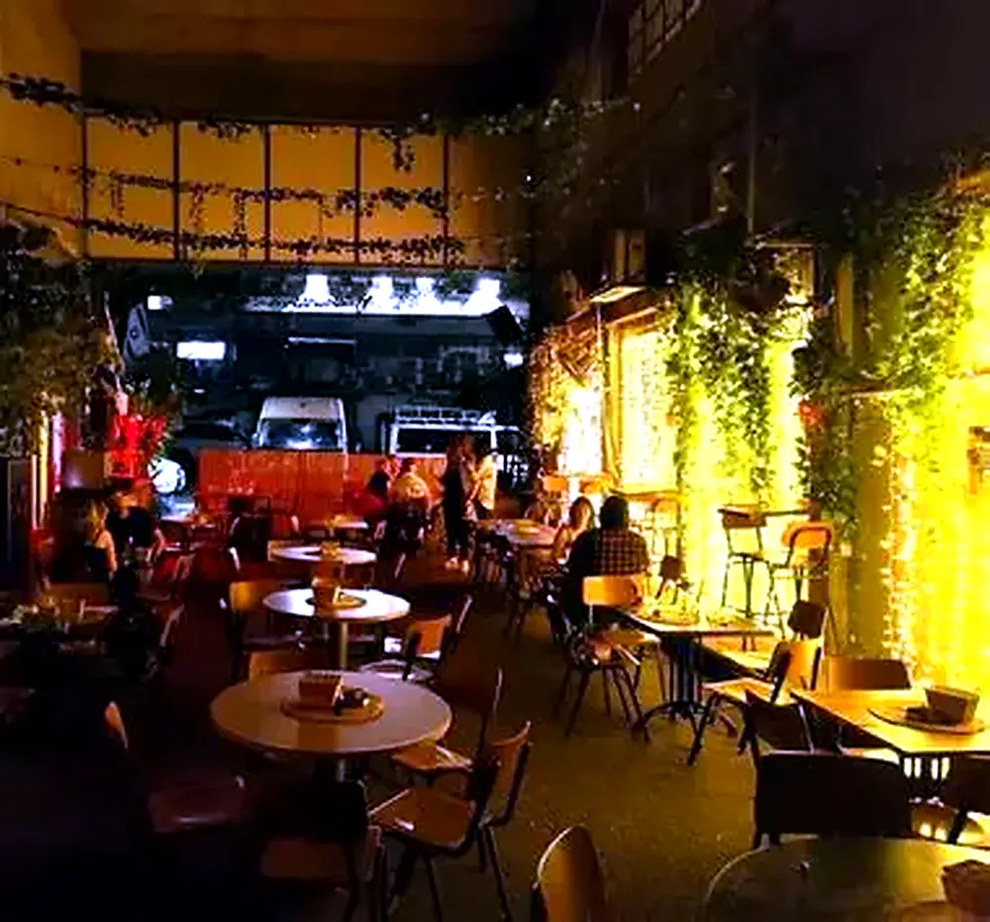
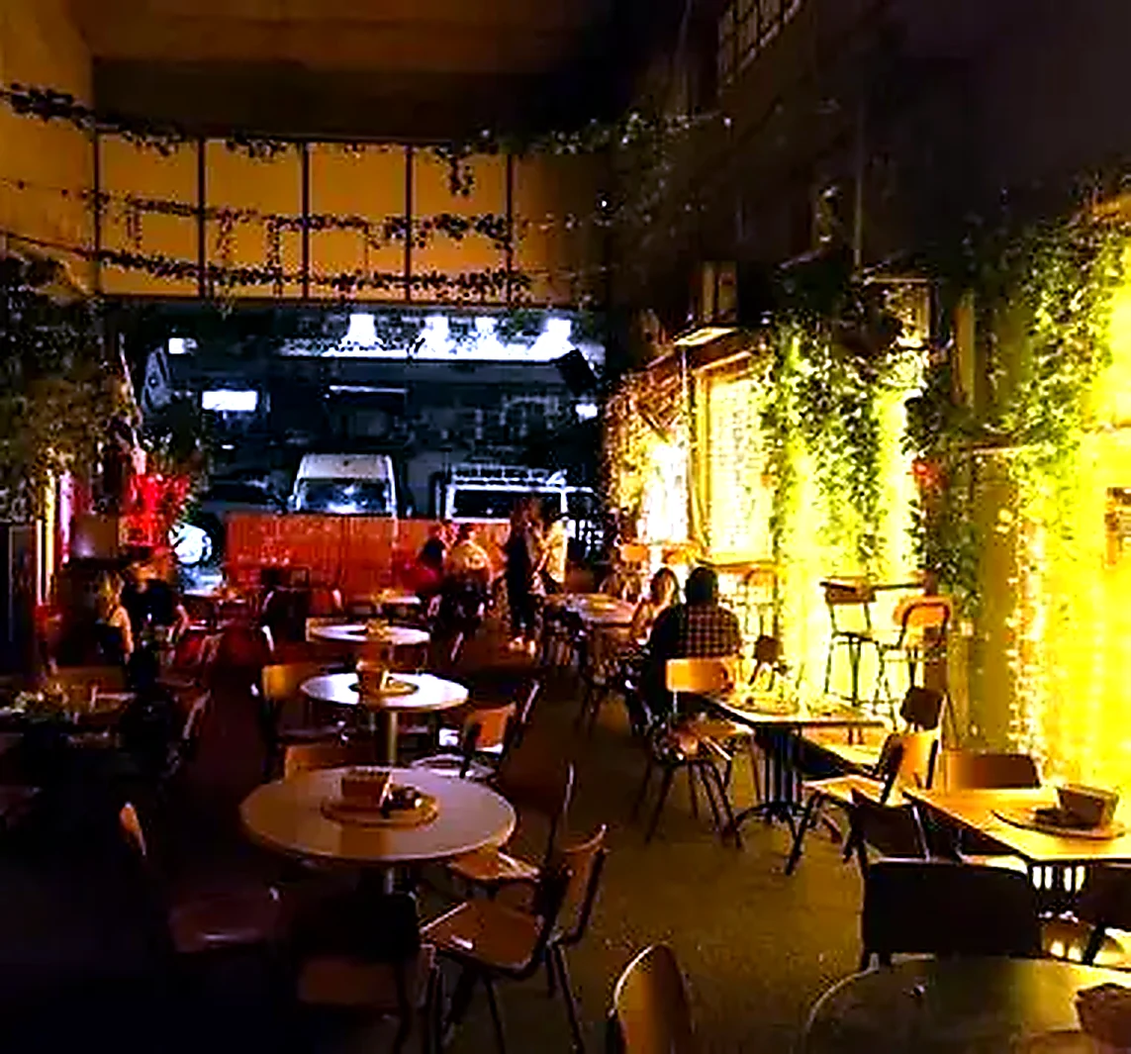
Deploy source 2a20569

diff --git a/styles.css b/styles.css
@@ -1,1 +1,1 @@
-:root{--black:#070503;--deep:#120c07;--cream:#fff3dc;--muted:rgba(255, 243, 220, 0.7);--gold:#f6b64d;--gold-bright:#ffd483;--copper:#c97a45;--green:#93a267;--line:rgba(255, 243, 220, 0.16);--font-display:"Karantina","Heebo",sans-serif;--font-body:"Assistant","Heebo",Arial,sans-serif;--ease-out:cubic-bezier(.16, 1, .3, 1);--content-max:1360px;--gutter:clamp(18px, 5vw, 72px);--pad-x:max(var(--gutter), calc((100vw - var(--content-max)) / 2));--radius:18px}*{box-sizing:border-box}html{scroll-behavior:smooth}body{margin:0;background:var(--black);color:var(--cream);font-family:var(--font-body);font-size:17px;line-height:1.6;overflow-x:hidden}main{overflow:clip}section[id]{scroll-margin-top:96px}a{color:inherit;text-decoration:none}img{display:block;max-width:100%}::selection{background:var(--gold);color:var(--black)}:focus-visible{outline:3px solid var(--gold-bright);outline-offset:4px}h1,h2{font-family:var(--font-display);font-weight:700;letter-spacing:.01em;margin:0}h1{font-size:clamp(110px, 17vw, 260px);line-height:.8;color:var(--cream);text-shadow:0 20px 50px rgba(0,0,0,.6)}h2{font-size:clamp(60px, 8vw, 130px);line-height:.84}.eyebrow{align-items:center;color:var(--gold);display:flex;font-size:15px;font-weight:700;gap:12px;letter-spacing:.14em;margin:0 0 12px}.eyebrow::before{background:var(--gold);content:"";height:2px;width:26px}.location .eyebrow{justify-content:center}.topbar{align-items:center;background:0 0;display:flex;inset:0 0 auto;justify-content:space-between;min-height:72px;padding:12px var(--pad-x);position:fixed;transition:background .3s,box-shadow .3s;z-index:50}.topbar.is-scrolled{background:rgba(7,5,3,.9);box-shadow:0 1px 0 var(--line),0 14px 40px rgba(0,0,0,.35)}@supports (backdrop-filter:blur(12px)){.topbar.is-scrolled{backdrop-filter:blur(12px);background:rgba(7,5,3,.72)}}.brand img{background:#fff;border-radius:50%;height:46px;object-fit:contain;padding:4px;width:46px}.quick-links{align-items:center;display:flex;gap:2px}.quick-links a{border-radius:999px;display:inline-flex;font-size:15px;font-weight:700;min-height:42px;align-items:center;padding:8px 15px;transition:color .2s,background .2s}.quick-links a:not(.nav-booking){color:var(--muted)}.quick-links a:not(.nav-booking):hover{color:var(--cream)}.quick-links .nav-booking{background:var(--gold);color:#1a1104;margin-inline-start:8px}.quick-links .nav-booking:hover{background:var(--gold-bright)}.button{align-items:center;background:0 0;border:1px solid var(--line);border-radius:999px;display:inline-flex;font-size:16px;font-weight:700;justify-content:center;min-height:48px;min-width:136px;padding:11px 22px;transition:background .2s,color .2s,border-color .2s}.button:hover{background:var(--cream);border-color:var(--cream);color:var(--black)}.button.primary{background:var(--gold);border-color:var(--gold);color:#1a1104}.button.primary:hover{background:var(--gold-bright);border-color:var(--gold-bright)}.hero{display:grid;align-content:end;min-height:100svh;overflow:hidden;padding:130px var(--pad-x) clamp(48px,8vh,96px);position:relative}.hero-bg,.hero-shade{inset:0;position:absolute}.hero-bg{background:url("assets/zigel-courtyard-hero.webp") center/cover no-repeat}.hero-shade{background:linear-gradient(90deg,rgba(7,5,3,.9),rgba(7,5,3,.25) 52%,rgba(7,5,3,.6)),linear-gradient(0deg,var(--black),transparent 44%)}.hero-inner{position:relative;z-index:2;max-width:900px}.hero-inner p.lead{color:var(--muted);font-size:clamp(18px, 2.2vw, 24px);font-weight:400;margin:18px 0 0;max-width:520px}.hero-actions{display:flex;flex-wrap:wrap;gap:10px;margin-top:30px}.hero-scroll{align-items:center;bottom:40px;color:var(--muted);display:inline-flex;font-size:14px;font-weight:700;gap:10px;inset-inline-end:var(--pad-x);letter-spacing:.05em;position:absolute;transition:color .2s;z-index:2}.hero-scroll span{align-items:center;border:1px solid var(--line);border-radius:50%;display:inline-flex;height:34px;justify-content:center;width:34px}.hero-scroll:hover{color:var(--cream)}.marquee{background:var(--gold);border-block:1px solid rgba(0,0,0,.2);overflow:hidden;padding:9px 0}.marquee-track{animation:40s linear infinite marqueeScroll;display:flex;gap:36px;width:max-content}.marquee-track span{color:#1a1104;font-family:var(--font-display);font-size:clamp(24px, 3vw, 38px);line-height:1;white-space:nowrap}.marquee-track span.dot{opacity:.45}.intro{align-items:center;background:linear-gradient(180deg,var(--black),var(--deep) 60%,var(--black));display:grid;gap:clamp(42px,7vw,110px);grid-template-columns:minmax(0,5fr) minmax(0,7fr);padding:clamp(90px,10vw,150px) var(--pad-x)}.intro-copy h2{font-size:clamp(52px, 6.6vw, 104px)}.intro-photo{aspect-ratio:4/5;border:1px solid var(--line);border-radius:var(--radius);box-shadow:0 24px 70px rgba(0,0,0,.4);overflow:hidden;transform:rotate(-1.2deg)}.intro-photo img{height:100%;object-fit:cover;width:100%}.events{background:var(--black);padding:clamp(90px,10vw,150px) var(--pad-x)}.events-heading,.menu-heading{margin-bottom:clamp(28px,5vw,56px)}.event-board{border-top:1px solid var(--line);display:grid}.event-card{align-items:baseline;border-bottom:1px solid var(--line);display:grid;gap:6px clamp(18px,3vw,44px);grid-template-columns:minmax(110px,.8fr) 1.4fr 2fr;padding:clamp(24px,3.4vw,44px) 0;transition:background .2s}.event-card:hover{background:rgba(255,243,220,.03)}.event-card time{color:var(--gold);display:block;font-family:var(--font-display);font-size:clamp(44px, 5.4vw, 84px);line-height:.85}.event-card span{color:var(--muted);display:block;font-size:14px;font-weight:700;letter-spacing:.1em}.event-card strong{font-family:var(--font-display);font-size:clamp(38px, 4.4vw, 66px);font-weight:400;line-height:.9}.event-card p{color:var(--muted);font-size:17px;margin:0;max-width:420px}.event-card.featured time{color:var(--gold-bright)}.event-card.featured strong::after{background:var(--gold);border-radius:999px;color:#1a1104;content:"האירוע של השבוע";display:inline-block;font-family:var(--font-body);font-size:12px;font-weight:700;margin-inline-start:12px;padding:4px 12px;vertical-align:middle}.menu-section{background:linear-gradient(180deg,var(--black),#140d08 55%,var(--black));padding:clamp(90px,10vw,150px) var(--pad-x)}.menu-grid{display:grid;gap:clamp(14px,2vw,26px);grid-template-columns:repeat(2,minmax(0,1fr))}.menu-card{border:1px solid var(--line);border-radius:var(--radius);overflow:hidden;padding:clamp(26px,3.6vw,44px)}.menu-card-image{border-radius:10px;height:180px;margin-bottom:22px;overflow:hidden}.menu-card-image img{height:100%;object-fit:cover;width:100%}.menu-card h3{color:var(--gold);font-family:var(--font-display);font-size:clamp(40px, 4.4vw, 64px);font-weight:400;line-height:.9;margin:0 0 22px}.menu-card ul{display:grid;gap:16px;list-style:none;margin:0;padding:0}.menu-card li{align-items:baseline;display:flex;gap:12px}.menu-card li>div{display:contents}.menu-card strong{font-size:18px;font-weight:700;white-space:nowrap;order:1}.menu-card li::after{border-bottom:2px dotted rgba(255,243,220,.25);content:"";flex:1;order:2;transform:translateY(-4px)}.menu-card span{color:var(--muted);display:block;font-size:15px;margin-top:2px;order:4;flex-basis:100%}.menu-card em{color:var(--gold);font-style:normal;font-weight:700;order:3;white-space:nowrap}.menu-card li{flex-wrap:wrap}.notice{border:1px dashed rgba(246,182,77,.45);border-radius:12px;color:var(--muted);font-size:clamp(16px, 2vw, 20px);font-weight:600;margin:26px 0 0;padding:16px 22px}.action-grid{background:var(--deep);border-block:1px solid var(--line);display:grid;grid-template-columns:repeat(3,1fr)}.action-card{border-inline-start:1px solid var(--line);display:grid;gap:14px;padding:clamp(28px,4vw,56px) clamp(20px,3vw,44px);transition:background .2s}.action-card:first-child{border-inline-start:0}.action-card:hover{background:rgba(246,182,77,.07)}.action-card small{color:var(--copper);font-size:14px;font-weight:700;letter-spacing:.12em}.action-card strong{font-family:var(--font-display);font-size:clamp(34px, 3.6vw, 56px);font-weight:400;line-height:.9}.gallery{background:var(--black);display:grid;gap:10px;grid-auto-rows:minmax(200px,23vw);grid-template-columns:repeat(12,minmax(0,1fr));padding:10px}.shot{border-radius:12px;grid-column:span 4;margin:0;overflow:hidden}.shot.wide{grid-column:span 8;grid-row:span 2}.shot img{height:100%;object-fit:cover;transition:transform .6s var(--ease-out);width:100%}.shot:hover img{transform:scale(1.05)}.location{background:linear-gradient(rgba(7,5,3,.72),rgba(7,5,3,.9)),url("assets/zigel-courtyard-hero.webp") center/cover;display:grid;min-height:80svh;padding:clamp(90px,11vw,160px) var(--pad-x);place-items:center;text-align:center}.location-panel{max-width:860px}.location .hero-actions{justify-content:center}.site-footer{background:var(--black);border-top:1px solid var(--line);color:var(--muted);display:flex;flex-wrap:wrap;font-size:14px;gap:8px 24px;justify-content:center;padding:22px var(--pad-x) 80px}.mobile-book{background:var(--gold);border-radius:999px;bottom:14px;box-shadow:0 14px 40px rgba(0,0,0,.45);color:#1a1104;display:none;font-size:17px;font-weight:700;inset-inline:16px;justify-content:center;min-height:54px;padding:14px;position:fixed;z-index:60}.reveal{opacity:0;transform:translateY(26px);transition:opacity .7s ease var(--reveal-delay, 0ms),transform 750ms var(--ease-out) var(--reveal-delay, 0ms)}.reveal.is-visible{opacity:1;transform:translateY(0)}.intro-photo.reveal{transform:translateY(26px) rotate(-1.2deg)}.intro-photo.reveal.is-visible{transform:rotate(-1.2deg)}@keyframes marqueeScroll{from{transform:translateX(0)}to{transform:translateX(-50%)}}@media (max-width:900px){.quick-links a:not(.nav-booking){display:none}.intro,.menu-grid{grid-template-columns:1fr}.event-card{grid-template-columns:minmax(96px,auto) 1fr}.event-card p{grid-column:2}.action-grid{grid-template-columns:1fr}.action-card{border-inline-start:0;border-top:1px solid var(--line)}.action-card:first-child{border-top:0}.gallery{grid-auto-rows:minmax(240px,48vw);grid-template-columns:1fr 1fr}.shot{grid-column:auto;grid-row:auto}.shot.wide{grid-column:1/-1}}@media (max-width:560px){.topbar{min-height:64px;padding-block:8px}.brand img{height:42px;width:42px}.hero{padding:110px 18px 40px}h1{font-size:clamp(96px, 30vw, 150px)}h2{font-size:clamp(52px, 15vw, 84px)}.hero-actions .button{flex:1 1 calc(50% - 5px);min-width:0}.hero-actions .button.primary{flex-basis:100%}.hero-scroll{display:none}.intro{gap:48px}.event-card{grid-template-columns:1fr;padding-block:26px}.event-card p{grid-column:1}.gallery{grid-auto-rows:minmax(240px,74vw);grid-template-columns:1fr}.location .button{flex:1 1 100%}.mobile-book{display:flex}.site-footer{padding-bottom:92px}}@media (prefers-reduced-motion:reduce){html{scroll-behavior:auto}.marquee-track{animation:none}.reveal{opacity:1;transform:none;transition:none}.intro-photo.reveal{transform:rotate(-1.2deg)}.shot img,.shot:hover img{transform:none;transition:none}}
+:root{--black:#070503;--deep:#120c07;--cream:#fff3dc;--muted:rgba(255, 243, 220, 0.7);--gold:#cd8f2e;--gold-bright:#e8ae45;--copper:#c97a45;--green:#93a267;--line:rgba(255, 243, 220, 0.16);--font-display:"Karantina","Heebo",sans-serif;--font-body:"Assistant","Heebo",Arial,sans-serif;--ease-out:cubic-bezier(.16, 1, .3, 1);--content-max:1360px;--gutter:clamp(18px, 5vw, 72px);--pad-x:max(var(--gutter), calc((100vw - var(--content-max)) / 2));--radius:18px}*{box-sizing:border-box}html{scroll-behavior:smooth}body{margin:0;background:var(--black);color:var(--cream);font-family:var(--font-body);font-size:17px;line-height:1.6;overflow-x:hidden}main{overflow:clip}section[id]{scroll-margin-top:96px}a{color:inherit;text-decoration:none}img{display:block;max-width:100%}::selection{background:var(--gold);color:var(--black)}:focus-visible{outline:3px solid var(--gold-bright);outline-offset:4px}h1,h2{font-family:var(--font-display);font-weight:700;letter-spacing:.01em;margin:0}h1{font-size:clamp(110px, 17vw, 260px);line-height:.8;color:var(--cream);text-shadow:0 20px 50px rgba(0,0,0,.6)}h2{font-size:clamp(60px, 8vw, 130px);line-height:.84}.eyebrow{align-items:center;color:var(--gold);display:flex;font-size:15px;font-weight:700;gap:12px;letter-spacing:.14em;margin:0 0 12px}.eyebrow::before{background:var(--gold);content:"";height:2px;width:26px}.location .eyebrow{justify-content:center}.topbar{align-items:center;background:0 0;display:flex;inset:0 0 auto;justify-content:space-between;min-height:72px;padding:12px var(--pad-x);position:fixed;transition:background .3s,box-shadow .3s;z-index:50}.topbar.is-scrolled{background:rgba(7,5,3,.9);box-shadow:0 1px 0 var(--line),0 14px 40px rgba(0,0,0,.35)}@supports (backdrop-filter:blur(12px)){.topbar.is-scrolled{backdrop-filter:blur(12px);background:rgba(7,5,3,.72)}}.brand img{background:#fff;border-radius:50%;height:46px;object-fit:contain;padding:4px;width:46px}.quick-links{align-items:center;display:flex;gap:2px}.quick-links a{border-radius:999px;display:inline-flex;font-size:15px;font-weight:700;min-height:42px;align-items:center;padding:8px 15px;transition:color .2s,background .2s}.quick-links a:not(.nav-booking){color:var(--muted)}.quick-links a:not(.nav-booking):hover{color:var(--cream)}.quick-links .nav-booking{background:var(--gold);color:#1a1104;margin-inline-start:8px}.quick-links .nav-booking:hover{background:var(--gold-bright)}.button{align-items:center;background:0 0;border:1px solid var(--line);border-radius:999px;display:inline-flex;font-size:16px;font-weight:700;justify-content:center;min-height:48px;min-width:136px;padding:11px 22px;transition:background .2s,color .2s,border-color .2s}.button:hover{background:var(--cream);border-color:var(--cream);color:var(--black)}.button.primary{background:var(--gold);border-color:var(--gold);color:#1a1104}.button.primary:hover{background:var(--gold-bright);border-color:var(--gold-bright)}.hero{display:grid;align-content:end;min-height:100svh;overflow:hidden;padding:130px var(--pad-x) clamp(48px,8vh,96px);position:relative}.hero-bg,.hero-shade{inset:0;position:absolute}.hero-bg{background:url("assets/zigel-courtyard-hero.webp") center/cover no-repeat}.hero-shade{background:linear-gradient(90deg,rgba(7,5,3,.9),rgba(7,5,3,.25) 52%,rgba(7,5,3,.6)),linear-gradient(0deg,var(--black),transparent 44%)}.hero-inner{position:relative;z-index:2;max-width:900px}.hero-inner p.lead{color:var(--muted);font-size:clamp(18px, 2.2vw, 24px);font-weight:400;margin:18px 0 0;max-width:520px}.hero-actions{display:flex;flex-wrap:wrap;gap:10px;margin-top:30px}.hero-scroll{align-items:center;bottom:40px;color:var(--muted);display:inline-flex;font-size:14px;font-weight:700;gap:10px;inset-inline-end:var(--pad-x);letter-spacing:.05em;position:absolute;transition:color .2s;z-index:2}.hero-scroll span{align-items:center;border:1px solid var(--line);border-radius:50%;display:inline-flex;height:34px;justify-content:center;width:34px}.hero-scroll:hover{color:var(--cream)}.marquee{background:var(--gold);border-block:1px solid rgba(0,0,0,.2);overflow:hidden;padding:9px 0}.marquee-track{animation:40s linear infinite marqueeScroll;display:flex;gap:36px;width:max-content}.marquee-track span{color:#1a1104;font-family:var(--font-display);font-size:clamp(24px, 3vw, 38px);line-height:1;white-space:nowrap}.marquee-track span.dot{opacity:.45}.intro{align-items:center;background:linear-gradient(180deg,var(--black),var(--deep) 60%,var(--black));display:grid;gap:clamp(42px,7vw,110px);grid-template-columns:minmax(0,5fr) minmax(0,7fr);padding:clamp(90px,10vw,150px) var(--pad-x)}.intro-copy h2{font-size:clamp(52px, 6.6vw, 104px)}.intro-photo{aspect-ratio:4/5;border:1px solid var(--line);border-radius:var(--radius);box-shadow:0 24px 70px rgba(0,0,0,.4);overflow:hidden;transform:rotate(-1.2deg)}.intro-photo img{height:100%;object-fit:cover;width:100%}.events{background:var(--black);padding:clamp(90px,10vw,150px) var(--pad-x)}.events-heading,.menu-heading{margin-bottom:clamp(28px,5vw,56px)}.event-board{border-top:1px solid var(--line);display:grid}.event-card{align-items:baseline;border-bottom:1px solid var(--line);display:grid;gap:6px clamp(18px,3vw,44px);grid-template-columns:minmax(110px,.8fr) 1.4fr 2fr;padding:clamp(24px,3.4vw,44px) 0;transition:background .2s}.event-card:hover{background:rgba(255,243,220,.03)}.event-card time{color:var(--gold);display:block;font-family:var(--font-display);font-size:clamp(44px, 5.4vw, 84px);line-height:.85}.event-card span{color:var(--muted);display:block;font-size:14px;font-weight:700;letter-spacing:.1em}.event-card strong{font-family:var(--font-display);font-size:clamp(38px, 4.4vw, 66px);font-weight:400;line-height:.9}.event-card p{color:var(--muted);font-size:17px;margin:0;max-width:420px}.event-card.featured time{color:var(--gold-bright)}.event-card.featured strong::after{background:var(--gold);border-radius:999px;color:#1a1104;content:"האירוע של השבוע";display:inline-block;font-family:var(--font-body);font-size:12px;font-weight:700;margin-inline-start:12px;padding:4px 12px;vertical-align:middle}.menu-section{background:linear-gradient(180deg,var(--black),#140d08 55%,var(--black));padding:clamp(90px,10vw,150px) var(--pad-x)}.menu-grid{display:grid;gap:clamp(14px,2vw,26px);grid-template-columns:repeat(2,minmax(0,1fr))}.menu-card{border:1px solid var(--line);border-radius:var(--radius);overflow:hidden;padding:clamp(26px,3.6vw,44px)}.menu-card-image{border-radius:10px;height:180px;margin-bottom:22px;overflow:hidden}.menu-card-image img{height:100%;object-fit:cover;width:100%}.menu-card h3{color:var(--gold);font-family:var(--font-display);font-size:clamp(40px, 4.4vw, 64px);font-weight:400;line-height:.9;margin:0 0 22px}.menu-card ul{display:grid;gap:16px;list-style:none;margin:0;padding:0}.menu-card li{align-items:baseline;display:flex;gap:12px}.menu-card li>div{display:contents}.menu-card strong{font-size:18px;font-weight:700;white-space:nowrap;order:1}.menu-card li::after{border-bottom:2px dotted rgba(255,243,220,.25);content:"";flex:1;order:2;transform:translateY(-4px)}.menu-card span{color:var(--muted);display:block;font-size:15px;margin-top:2px;order:4;flex-basis:100%}.menu-card em{color:var(--gold);font-style:normal;font-weight:700;order:3;white-space:nowrap}.menu-card li{flex-wrap:wrap}.notice{border:1px dashed rgba(246,182,77,.45);border-radius:12px;color:var(--muted);font-size:clamp(16px, 2vw, 20px);font-weight:600;margin:26px 0 0;padding:16px 22px}.action-grid{background:var(--deep);border-block:1px solid var(--line);display:grid;grid-template-columns:repeat(3,1fr)}.action-card{border-inline-start:1px solid var(--line);display:grid;gap:14px;padding:clamp(28px,4vw,56px) clamp(20px,3vw,44px);transition:background .2s}.action-card:first-child{border-inline-start:0}.action-card:hover{background:rgba(246,182,77,.07)}.action-card small{color:var(--copper);font-size:14px;font-weight:700;letter-spacing:.12em}.action-card strong{font-family:var(--font-display);font-size:clamp(34px, 3.6vw, 56px);font-weight:400;line-height:.9}.gallery{background:var(--black);display:grid;gap:10px;grid-auto-rows:minmax(200px,23vw);grid-template-columns:repeat(12,minmax(0,1fr));padding:10px}.shot{border-radius:12px;grid-column:span 4;margin:0;overflow:hidden}.shot.wide{grid-column:span 8;grid-row:span 2}.shot img{height:100%;object-fit:cover;transition:transform .6s var(--ease-out);width:100%}.shot:hover img{transform:scale(1.05)}.location{background:linear-gradient(rgba(7,5,3,.72),rgba(7,5,3,.9)),url("assets/zigel-courtyard-hero.webp") center/cover;display:grid;min-height:80svh;padding:clamp(90px,11vw,160px) var(--pad-x);place-items:center;text-align:center}.location-panel{max-width:860px}.location .hero-actions{justify-content:center}.site-footer{background:var(--black);border-top:1px solid var(--line);color:var(--muted);display:flex;flex-wrap:wrap;font-size:14px;gap:8px 24px;justify-content:center;padding:22px var(--pad-x) 80px}.mobile-book{background:var(--gold);border-radius:999px;bottom:14px;box-shadow:0 14px 40px rgba(0,0,0,.45);color:#1a1104;display:none;font-size:17px;font-weight:700;inset-inline:16px;justify-content:center;min-height:54px;padding:14px;position:fixed;z-index:60}.reveal{opacity:0;transform:translateY(26px);transition:opacity .7s ease var(--reveal-delay, 0ms),transform 750ms var(--ease-out) var(--reveal-delay, 0ms)}.reveal.is-visible{opacity:1;transform:translateY(0)}.intro-photo.reveal{transform:translateY(26px) rotate(-1.2deg)}.intro-photo.reveal.is-visible{transform:rotate(-1.2deg)}@keyframes marqueeScroll{from{transform:translateX(0)}to{transform:translateX(-50%)}}@media (max-width:900px){.quick-links a:not(.nav-booking){display:none}.intro,.menu-grid{grid-template-columns:1fr}.event-card{grid-template-columns:minmax(96px,auto) 1fr}.event-card p{grid-column:2}.action-grid{grid-template-columns:1fr}.action-card{border-inline-start:0;border-top:1px solid var(--line)}.action-card:first-child{border-top:0}.gallery{grid-auto-rows:minmax(240px,48vw);grid-template-columns:1fr 1fr}.shot{grid-column:auto;grid-row:auto}.shot.wide{grid-column:1/-1}}@media (max-width:560px){.topbar{min-height:64px;padding-block:8px}.brand img{height:42px;width:42px}.hero{padding:110px 18px 40px}h1{font-size:clamp(96px, 30vw, 150px)}h2{font-size:clamp(52px, 15vw, 84px)}.hero-actions .button{flex:1 1 calc(50% - 5px);min-width:0}.hero-actions .button.primary{flex-basis:100%}.hero-scroll{display:none}.intro{gap:48px}.event-card{grid-template-columns:1fr;padding-block:26px}.event-card p{grid-column:1}.gallery{grid-auto-rows:minmax(240px,74vw);grid-template-columns:1fr}.location .button{flex:1 1 100%}.mobile-book{display:flex}.site-footer{padding-bottom:92px}}@media (prefers-reduced-motion:reduce){html{scroll-behavior:auto}.marquee-track{animation:none}.reveal{opacity:1;transform:none;transition:none}.intro-photo.reveal{transform:rotate(-1.2deg)}.shot img,.shot:hover img{transform:none;transition:none}}

diff --git a/index.html b/index.html
@@ -1,1 +1,1 @@
-<!doctype html><html dir="rtl" lang="he"><head><meta charset="UTF-8"><meta content="width=device-width,initial-scale=1" name="viewport"><link href="assets/zigel-courtyard-hero.webp" rel="preload" as="image" fetchpriority="high" type="image/webp"><meta content="זיגל בר בכורזין 5, גבעתיים. חצר לילה, בר, הזמנות וניווט." name="description"><title>זיגל בר | כורזין 5, גבעתיים</title><link href="https://fonts.googleapis.com" rel="preconnect"><link href="https://fonts.gstatic.com" rel="preconnect" crossorigin><link href="https://fonts.googleapis.com/css2?family=Karantina:wght@400;700&family=Assistant:wght@400;600;700&display=swap" rel="stylesheet"><link href="styles.css?v=light-01" rel="stylesheet"><noscript><style>.reveal{opacity:1!important;transform:none!important}</style></noscript></head><body><header class="topbar" data-header><a href="#top" class="brand" aria-label="זיגל בר"><img alt="זיגל בר" src="assets/zigel-logo.png"></a><nav aria-label="קישורים מהירים" class="quick-links"><a href="#events">אירועים</a> <a href="#menu">תפריט</a> <a href="https://waze.com/ul/hsv8y2hrg1" data-link="waze" rel="noreferrer" target="_blank">Waze</a> <a href="https://ontopo.com/he/il/page/19664385" class="nav-booking" data-link="booking" rel="noreferrer" target="_blank">הזמנת מקום</a></nav></header><main id="top"><section class="hero" aria-labelledby="hero-title"><div class="hero-bg" aria-hidden="true" data-image-bg="images.hero"></div><div class="hero-shade" aria-hidden="true"></div><div class="reveal hero-inner"><p class="eyebrow" data-content="site.eyebrow">כורזין 5 · גבעתיים</p><h1 data-content="site.title" id="hero-title">זיגל בר</h1><p class="lead" data-content="site.introTitle">מקום שנכנסים אליו לרגע, ונשארים בו ערב.</p><div class="hero-actions" aria-label="קישורי ערב"><a href="https://ontopo.com/he/il/page/19664385" class="button primary" data-link="booking" rel="noreferrer" target="_blank">הזמנת מקום</a> <a href="https://waze.com/ul/hsv8y2hrg1" class="button" data-link="waze" rel="noreferrer" target="_blank">Waze</a> <a href="https://www.instagram.com/zigel.bar?igsh=MTJldmk5dXB6ZG5tbA==" class="button" data-link="instagram" rel="noreferrer" target="_blank">Instagram</a></div></div><a href="#intro" class="hero-scroll"><span aria-hidden="true">↓</span> לגלות את זיגל</a></section><div class="marquee" aria-hidden="true"><div class="marquee-track" data-marquee><span>זיגל בר</span><span class="dot">✶</span><span>חצר פתוחה</span><span class="dot">✶</span><span>קוקטיילים</span><span class="dot">✶</span><span>כורזין 5, גבעתיים</span><span class="dot">✶</span> <span>זיגל בר</span><span class="dot">✶</span><span>חצר פתוחה</span><span class="dot">✶</span><span>קוקטיילים</span><span class="dot">✶</span><span>כורזין 5, גבעתיים</span><span class="dot">✶</span></div></div><section class="intro" aria-label="המקום" id="intro"><div class="reveal intro-copy"><p class="eyebrow" data-content="site.introLabel">המקום</p><h2 data-content="site.introTitle">מקום שנכנסים אליו לרגע, ונשארים בו ערב.</h2></div><div class="reveal intro-photo"><img alt="ערב בזיגל בר" src="assets/zigel-courtyard-hero.webp" decoding="async" loading="lazy" data-image="images.intro"></div></section><section class="events" aria-label="מה קורה בזיגל" id="events"><div class="reveal events-heading"><p class="eyebrow">הלוח של זיגל</p><h2>מה קורה בחצר</h2></div><div class="event-board" data-events><article class="reveal event-card"><time>--</time><div><span>חמישי</span><strong>פותחים ערב</strong></div><p>שולחן בחוץ, בר פתוח, מקום שמתחיל לאט ונשאר.</p></article></div></section><section class="menu-section" aria-label="תפריט" id="menu"><div class="reveal menu-heading"><p class="eyebrow">תפריט</p><h2>מה על הבר</h2></div><div class="menu-grid" data-menu></div><p class="reveal notice" data-notice></p></section><section class="action-grid" aria-label="מה צריך לערב"><a href="https://ontopo.com/he/il/page/19664385" class="reveal action-card" data-link="booking" rel="noreferrer" target="_blank"><small>01</small> <strong>שומרים מקום</strong> </a><a href="https://waze.com/ul/hsv8y2hrg1" class="reveal action-card" data-link="waze" rel="noreferrer" target="_blank"><small>02</small> <strong>מגיעים לחצר</strong> </a><a href="https://www.instagram.com/zigel.bar?igsh=MTJldmk5dXB6ZG5tbA==" class="reveal action-card" data-link="instagram" rel="noreferrer" target="_blank"><small>03</small> <strong>מה קורה הערב</strong></a></section><section class="gallery" aria-label="רגעים מהחצר" data-gallery><figure class="reveal shot wide"><img alt="לילה מלא בזיגל בר" src="assets/zigel-courtyard-hero.webp" decoding="async" loading="lazy"></figure><figure class="reveal shot"><img alt="אור חם בחצר של זיגל" src="assets/courtyard-night-enhanced.webp" decoding="async" loading="lazy"></figure><figure class="reveal shot"><img alt="שולחנות בחצר של זיגל" src="assets/crowd-yard-enhanced.webp" decoding="async" loading="lazy"></figure></section><section class="location" aria-label="מיקום" data-image-bg="images.location"><div class="reveal location-panel"><p class="eyebrow" data-content="site.locationLabel">איפה נפגשים</p><h2 data-content="site.locationTitle">כורזין 5<br>גבעתיים</h2><div class="hero-actions compact"><a href="https://ontopo.com/he/il/page/19664385" class="button primary" data-link="booking" rel="noreferrer" target="_blank">הזמנה</a> <a href="https://waze.com/ul/hsv8y2hrg1" class="button" data-link="waze" rel="noreferrer" target="_blank">Waze</a> <a href="https://www.instagram.com/zigel.bar?igsh=MTJldmk5dXB6ZG5tbA==" class="button" data-link="instagram" rel="noreferrer" target="_blank">Instagram</a></div></div></section></main><footer class="site-footer"><span data-content="site.title">זיגל בר</span> <span data-content="site.eyebrow">כורזין 5 · גבעתיים</span></footer><a href="https://ontopo.com/he/il/page/19664385" class="mobile-book" data-link="booking" rel="noreferrer" target="_blank">הזמנת מקום</a><script src="script.js?v=light-01"></script></body></html>
+<!doctype html><html dir="rtl" lang="he"><head><meta charset="UTF-8"><meta content="width=device-width,initial-scale=1" name="viewport"><link href="assets/zigel-courtyard-hero.webp" rel="preload" as="image" fetchpriority="high" type="image/webp"><meta content="זיגל בר בכורזין 5, גבעתיים. חצר לילה, בר, הזמנות וניווט." name="description"><title>זיגל בר | כורזין 5, גבעתיים</title><link href="https://fonts.googleapis.com" rel="preconnect"><link href="https://fonts.gstatic.com" rel="preconnect" crossorigin><link href="https://fonts.googleapis.com/css2?family=Karantina:wght@400;700&family=Assistant:wght@400;600;700&display=swap" rel="stylesheet"><link href="styles.css?v=light-02" rel="stylesheet"><noscript><style>.reveal{opacity:1!important;transform:none!important}</style></noscript></head><body><header class="topbar" data-header><a href="#top" class="brand" aria-label="זיגל בר"><img alt="זיגל בר" src="assets/zigel-logo.png"></a><nav aria-label="קישורים מהירים" class="quick-links"><a href="#events">אירועים</a> <a href="#menu">תפריט</a> <a href="https://waze.com/ul/hsv8y2hrg1" data-link="waze" rel="noreferrer" target="_blank">Waze</a> <a href="https://ontopo.com/he/il/page/19664385" class="nav-booking" data-link="booking" rel="noreferrer" target="_blank">הזמנת מקום</a></nav></header><main id="top"><section class="hero" aria-labelledby="hero-title"><div class="hero-bg" aria-hidden="true" data-image-bg="images.hero"></div><div class="hero-shade" aria-hidden="true"></div><div class="reveal hero-inner"><p class="eyebrow" data-content="site.eyebrow">כורזין 5 · גבעתיים</p><h1 data-content="site.title" id="hero-title">זיגל בר</h1><p class="lead" data-content="site.introTitle">מקום שנכנסים אליו לרגע, ונשארים בו ערב.</p><div class="hero-actions" aria-label="קישורי ערב"><a href="https://ontopo.com/he/il/page/19664385" class="button primary" data-link="booking" rel="noreferrer" target="_blank">הזמנת מקום</a> <a href="https://waze.com/ul/hsv8y2hrg1" class="button" data-link="waze" rel="noreferrer" target="_blank">Waze</a> <a href="https://www.instagram.com/zigel.bar?igsh=MTJldmk5dXB6ZG5tbA==" class="button" data-link="instagram" rel="noreferrer" target="_blank">Instagram</a></div></div><a href="#intro" class="hero-scroll"><span aria-hidden="true">↓</span> לגלות את זיגל</a></section><div class="marquee" aria-hidden="true"><div class="marquee-track" data-marquee><span>זיגל בר</span><span class="dot">✶</span><span>חצר פתוחה</span><span class="dot">✶</span><span>קוקטיילים</span><span class="dot">✶</span><span>כורזין 5, גבעתיים</span><span class="dot">✶</span> <span>זיגל בר</span><span class="dot">✶</span><span>חצר פתוחה</span><span class="dot">✶</span><span>קוקטיילים</span><span class="dot">✶</span><span>כורזין 5, גבעתיים</span><span class="dot">✶</span></div></div><section class="intro" aria-label="המקום" id="intro"><div class="reveal intro-copy"><p class="eyebrow" data-content="site.introLabel">המקום</p><h2 data-content="site.introTitle">מקום שנכנסים אליו לרגע, ונשארים בו ערב.</h2></div><div class="reveal intro-photo"><img alt="ערב בזיגל בר" src="assets/zigel-courtyard-hero.webp" decoding="async" loading="lazy" data-image="images.intro"></div></section><section class="events" aria-label="מה קורה בזיגל" id="events"><div class="reveal events-heading"><p class="eyebrow">הלוח של זיגל</p><h2>מה קורה בחצר</h2></div><div class="event-board" data-events><article class="reveal event-card"><time>--</time><div><span>חמישי</span><strong>פותחים ערב</strong></div><p>שולחן בחוץ, בר פתוח, מקום שמתחיל לאט ונשאר.</p></article></div></section><section class="menu-section" aria-label="תפריט" id="menu"><div class="reveal menu-heading"><p class="eyebrow">תפריט</p><h2>מה על הבר</h2></div><div class="menu-grid" data-menu></div><p class="reveal notice" data-notice></p></section><section class="action-grid" aria-label="מה צריך לערב"><a href="https://ontopo.com/he/il/page/19664385" class="reveal action-card" data-link="booking" rel="noreferrer" target="_blank"><small>01</small> <strong>שומרים מקום</strong> </a><a href="https://waze.com/ul/hsv8y2hrg1" class="reveal action-card" data-link="waze" rel="noreferrer" target="_blank"><small>02</small> <strong>מגיעים לחצר</strong> </a><a href="https://www.instagram.com/zigel.bar?igsh=MTJldmk5dXB6ZG5tbA==" class="reveal action-card" data-link="instagram" rel="noreferrer" target="_blank"><small>03</small> <strong>מה קורה הערב</strong></a></section><section class="gallery" aria-label="רגעים מהחצר" data-gallery><figure class="reveal shot wide"><img alt="לילה מלא בזיגל בר" src="assets/zigel-courtyard-hero.webp" decoding="async" loading="lazy"></figure><figure class="reveal shot"><img alt="אור חם בחצר של זיגל" src="assets/courtyard-night-enhanced.webp" decoding="async" loading="lazy"></figure><figure class="reveal shot"><img alt="שולחנות בחצר של זיגל" src="assets/crowd-yard-enhanced.webp" decoding="async" loading="lazy"></figure></section><section class="location" aria-label="מיקום" data-image-bg="images.location"><div class="reveal location-panel"><p class="eyebrow" data-content="site.locationLabel">איפה נפגשים</p><h2 data-content="site.locationTitle">כורזין 5<br>גבעתיים</h2><div class="hero-actions compact"><a href="https://ontopo.com/he/il/page/19664385" class="button primary" data-link="booking" rel="noreferrer" target="_blank">הזמנה</a> <a href="https://waze.com/ul/hsv8y2hrg1" class="button" data-link="waze" rel="noreferrer" target="_blank">Waze</a> <a href="https://www.instagram.com/zigel.bar?igsh=MTJldmk5dXB6ZG5tbA==" class="button" data-link="instagram" rel="noreferrer" target="_blank">Instagram</a></div></div></section></main><footer class="site-footer"><span data-content="site.title">זיגל בר</span> <span data-content="site.eyebrow">כורזין 5 · גבעתיים</span></footer><a href="https://ontopo.com/he/il/page/19664385" class="mobile-book" data-link="booking" rel="noreferrer" target="_blank">הזמנת מקום</a><script src="script.js?v=light-02"></script></body></html>

diff --git a/script.js b/script.js
@@ -1,1 +1,1 @@
-const header=document.querySelector("[data-header]"),fallbackContent={links:{booking:"https://ontopo.com/he/il/page/19664385",waze:"https://waze.com/ul/hsv8y2hrg1",instagram:"https://www.instagram.com/zigel.bar?igsh=MTJldmk5dXB6ZG5tbA=="},images:{hero:"assets/zigel-courtyard-hero.webp",intro:"assets/zigel-courtyard-hero.webp",location:"assets/zigel-courtyard-hero.webp",gallery:[{src:"assets/zigel-courtyard-hero.webp",alt:"לילה מלא בזיגל בר"},{src:"assets/courtyard-night-enhanced.webp",alt:"אור חם בחצר של זיגל"},{src:"assets/crowd-yard-enhanced.webp",alt:"שולחנות בחצר של זיגל"}]},marquee:["זיגל בר","חצר פתוחה","קוקטיילים","כורזין 5, גבעתיים"],events:[{date:"",day:"חמישי",title:"פותחים ערב",description:"שולחן בחוץ, בר פתוח, מקום שמתחיל לאט ונשאר.",featured:!1}],menu:[],notice:{enabled:!1,text:""}};let scrollFrame;const onScroll=()=>{scrollFrame||(scrollFrame=window.requestAnimationFrame(()=>{header?.classList.toggle("is-scrolled",window.scrollY>20),scrollFrame=void 0}))},escapeHtml=(e="")=>String(e).replace(/&/g,"&amp;").replace(/</g,"&lt;").replace(/>/g,"&gt;").replace(/"/g,"&quot;").replace(/'/g,"&#039;"),textWithBreaks=(e="")=>escapeHtml(e).replace(/\n/g,"<br>"),getByPath=(e,t)=>t.split(".").reduce((e,t)=>e&&void 0!==e[t]?e[t]:void 0,e),formatEventDate=e=>new Intl.DateTimeFormat("he-IL",{day:"2-digit",month:"2-digit"}).format(e),nextWeekday=(e,t=0)=>{const a=new Date,n=(e-a.getDay()+7)%7||7;return a.setDate(a.getDate()+n+7*t),a},fallbackDateForIndex=e=>formatEventDate(nextWeekday([4,5,6][e]??4,e>1?1:0)),applyTextContent=e=>{document.querySelectorAll("[data-content]").forEach(t=>{const a=getByPath(e,t.dataset.content);null!=a&&(t.innerHTML=textWithBreaks(a))})},applyLinks=(e={})=>{document.querySelectorAll("[data-link]").forEach(t=>{const a=e[t.dataset.link];a&&t.setAttribute("href",a)})},applyImages=e=>{document.querySelectorAll("[data-image]").forEach(t=>{const a=getByPath(e,t.dataset.image);a&&t.setAttribute("src",a)}),document.querySelectorAll("[data-image-bg]").forEach(t=>{const a=getByPath(e,t.dataset.imageBg);a&&(t.classList.contains("location")?t.style.backgroundImage=`linear-gradient(rgba(7,5,3,.72), rgba(7,5,3,.9)), url("${a}")`:t.style.backgroundImage=`url("${a}")`)})},renderMarquee=e=>{const t=document.querySelector("[data-marquee]");if(!t)return;const a=(Array.isArray(e.marquee)&&e.marquee.length?e.marquee:fallbackContent.marquee).filter(Boolean);if(!a.length)return;const n=a.map(e=>`<span>${escapeHtml(e)}</span><span class="dot">✶</span>`).join("");t.innerHTML=n+n},renderEvents=(e=[])=>{const t=document.querySelector("[data-events]");t&&e.length&&(t.innerHTML=e.map((e,t)=>{const a=e.date||fallbackDateForIndex(t);return`\n        <article class="event-card reveal${e.featured?" featured":""}">\n          <time>${escapeHtml(a)}</time>\n          <div>\n            <span>${escapeHtml(e.day||"אירוע")}</span>\n            <strong>${escapeHtml(e.title||"מתעדכן")}</strong>\n          </div>\n          <p>${escapeHtml(e.description||"פרטים בקרוב.")}</p>\n        </article>`}).join(""))},renderMenu=(e=[])=>{const t=document.querySelector("[data-menu]");t&&(e.length?t.innerHTML=e.map(e=>{const t=Array.isArray(e.items)?e.items:[];return`\n        <article class="menu-card reveal">\n          ${e.image?`<div class="menu-card-image"><img src="${escapeHtml(e.image)}" alt="${escapeHtml(e.category||"תפריט")}" loading="lazy" decoding="async" /></div>`:""}\n          <h3>${escapeHtml(e.category||"מהבר")}</h3>\n          <ul>\n            ${t.map(e=>`\n                  <li>\n                    <strong>${escapeHtml(e.name||"פריט")}</strong>\n                    ${e.price?`<em>${escapeHtml(e.price)}</em>`:""}\n                    ${e.description?`<span>${escapeHtml(e.description)}</span>`:""}\n                  </li>`).join("")}\n          </ul>\n        </article>`}).join(""):t.innerHTML="")},renderGallery=(e=[])=>{const t=document.querySelector("[data-gallery]");t&&e.length&&(t.innerHTML=e.filter(e=>e&&e.src).map((e,t)=>`\n        <figure class="shot ${0===t?"wide":""} reveal">\n          <img src="${escapeHtml(e.src)}" alt="${escapeHtml(e.alt||"זיגל בר")}" loading="lazy" decoding="async" />\n        </figure>`).join(""))},renderNotice=(e={})=>{const t=document.querySelector("[data-notice]");if(t){if(!e.enabled||!e.text)return t.hidden=!0,void(t.textContent="");t.hidden=!1,t.textContent=e.text}},observeRevealItems=()=>{const e=document.querySelectorAll(".reveal:not(.is-visible)");if(window.matchMedia("(prefers-reduced-motion: reduce)").matches||!("IntersectionObserver"in window))return void e.forEach(e=>e.classList.add("is-visible"));const t=new IntersectionObserver(e=>{e.forEach(e=>{e.isIntersecting&&(e.target.classList.add("is-visible"),t.unobserve(e.target))})},{threshold:.12});[".event-board",".menu-grid",".action-grid",".gallery"].forEach(e=>{document.querySelectorAll(`${e} > .reveal`).forEach((e,t)=>{e.style.setProperty("--reveal-delay",80*Math.min(t,4)+"ms")})}),e.forEach(e=>t.observe(e)),window.setTimeout(()=>{document.querySelectorAll(".reveal:not(.is-visible)").forEach(e=>e.classList.add("is-visible"))},2500)},loadContent=async()=>{try{const e=await fetch(`data/site.json?v=${Date.now()}`,{cache:"no-store"});if(!e.ok)throw new Error(`Content request failed: ${e.status}`);const t=await e.json();return{...fallbackContent,...t,images:{...fallbackContent.images,...t.images||{}}}}catch(e){return console.warn("Using embedded Zigel Bar content fallback",e),fallbackContent}},boot=async()=>{const e=await loadContent();applyTextContent(e),applyLinks(e.links),applyImages(e),renderMarquee(e),renderEvents(e.events),renderMenu(e.menu),renderGallery(e.images?.gallery),renderNotice(e.notice),observeRevealItems(),onScroll(),document.body.classList.add("is-ready")};window.addEventListener("scroll",onScroll,{passive:!0}),boot();
+const header=document.querySelector("[data-header]"),fallbackContent={links:{booking:"https://ontopo.com/he/il/page/19664385",waze:"https://waze.com/ul/hsv8y2hrg1",instagram:"https://www.instagram.com/zigel.bar?igsh=MTJldmk5dXB6ZG5tbA=="},images:{hero:"assets/zigel-courtyard-hero.webp",intro:"assets/zigel-courtyard-hero.webp",location:"assets/zigel-courtyard-hero.webp",gallery:[{src:"assets/zigel-courtyard-hero.webp",alt:"לילה מלא בזיגל בר"},{src:"assets/courtyard-night-enhanced.webp",alt:"אור חם בחצר של זיגל"},{src:"assets/crowd-yard-enhanced.webp",alt:"שולחנות בחצר של זיגל"}]},marquee:["זיגל בר","חצר פתוחה","קוקטיילים","כורזין 5, גבעתיים"],events:[{date:"",day:"חמישי",title:"פותחים ערב",description:"שולחן בחוץ, בר פתוח, מקום שמתחיל לאט ונשאר.",featured:!1}],menu:[],notice:{enabled:!1,text:""}};let scrollFrame;const onScroll=()=>{scrollFrame||(scrollFrame=window.requestAnimationFrame(()=>{header?.classList.toggle("is-scrolled",window.scrollY>20),scrollFrame=void 0}))},escapeHtml=(e="")=>String(e).replace(/&/g,"&amp;").replace(/</g,"&lt;").replace(/>/g,"&gt;").replace(/"/g,"&quot;").replace(/'/g,"&#039;"),textWithBreaks=(e="")=>escapeHtml(e).replace(/\n/g,"<br>"),getByPath=(e,t)=>t.split(".").reduce((e,t)=>e&&void 0!==e[t]?e[t]:void 0,e),formatEventDate=e=>new Intl.DateTimeFormat("he-IL",{day:"2-digit",month:"2-digit"}).format(e),nextWeekday=(e,t=0)=>{const a=new Date,n=(e-a.getDay()+7)%7||7;return a.setDate(a.getDate()+n+7*t),a},fallbackDateForIndex=e=>formatEventDate(nextWeekday([4,5,6][e]??4,e>1?1:0)),applyTextContent=e=>{document.querySelectorAll("[data-content]").forEach(t=>{const a=getByPath(e,t.dataset.content);null!=a&&(t.innerHTML=textWithBreaks(a))})},applyLinks=(e={})=>{document.querySelectorAll("[data-link]").forEach(t=>{const a=e[t.dataset.link];a&&t.setAttribute("href",a)})},applyImages=e=>{document.querySelectorAll("[data-image]").forEach(t=>{const a=getByPath(e,t.dataset.image);a&&t.setAttribute("src",a)}),document.querySelectorAll("[data-image-bg]").forEach(t=>{const a=getByPath(e,t.dataset.imageBg);a&&(t.classList.contains("location")?t.style.backgroundImage=`linear-gradient(rgba(7,5,3,.72), rgba(7,5,3,.9)), url("${a}")`:t.style.backgroundImage=`url("${a}")`)})},renderMarquee=e=>{const t=document.querySelector("[data-marquee]");if(!t)return;const a=(Array.isArray(e.marquee)&&e.marquee.length?e.marquee:fallbackContent.marquee).filter(Boolean);if(!a.length)return;const n=a.map(e=>`<span>${escapeHtml(e)}</span><span class="dot">✶</span>`).join("");t.innerHTML=n;const r=t.scrollWidth||1,s=2*Math.max(1,Math.ceil(1.15*window.innerWidth/r));t.innerHTML=n.repeat(s);t.style.animationDuration=`${Math.round(r*s/2/90)}s`},renderEvents=(e=[])=>{const t=document.querySelector("[data-events]");t&&e.length&&(t.innerHTML=e.map((e,t)=>{const a=e.date||fallbackDateForIndex(t);return`\n        <article class="event-card reveal${e.featured?" featured":""}">\n          <time>${escapeHtml(a)}</time>\n          <div>\n            <span>${escapeHtml(e.day||"אירוע")}</span>\n            <strong>${escapeHtml(e.title||"מתעדכן")}</strong>\n          </div>\n          <p>${escapeHtml(e.description||"פרטים בקרוב.")}</p>\n        </article>`}).join(""))},renderMenu=(e=[])=>{const t=document.querySelector("[data-menu]");t&&(e.length?t.innerHTML=e.map(e=>{const t=Array.isArray(e.items)?e.items:[];return`\n        <article class="menu-card reveal">\n          ${e.image?`<div class="menu-card-image"><img src="${escapeHtml(e.image)}" alt="${escapeHtml(e.category||"תפריט")}" loading="lazy" decoding="async" /></div>`:""}\n          <h3>${escapeHtml(e.category||"מהבר")}</h3>\n          <ul>\n            ${t.map(e=>`\n                  <li>\n                    <strong>${escapeHtml(e.name||"פריט")}</strong>\n                    ${e.price?`<em>${escapeHtml(e.price)}</em>`:""}\n                    ${e.description?`<span>${escapeHtml(e.description)}</span>`:""}\n                  </li>`).join("")}\n          </ul>\n        </article>`}).join(""):t.innerHTML="")},renderGallery=(e=[])=>{const t=document.querySelector("[data-gallery]");t&&e.length&&(t.innerHTML=e.filter(e=>e&&e.src).map((e,t)=>`\n        <figure class="shot ${0===t?"wide":""} reveal">\n          <img src="${escapeHtml(e.src)}" alt="${escapeHtml(e.alt||"זיגל בר")}" loading="lazy" decoding="async" />\n        </figure>`).join(""))},renderNotice=(e={})=>{const t=document.querySelector("[data-notice]");if(t){if(!e.enabled||!e.text)return t.hidden=!0,void(t.textContent="");t.hidden=!1,t.textContent=e.text}},observeRevealItems=()=>{const e=document.querySelectorAll(".reveal:not(.is-visible)");if(window.matchMedia("(prefers-reduced-motion: reduce)").matches||!("IntersectionObserver"in window))return void e.forEach(e=>e.classList.add("is-visible"));const t=new IntersectionObserver(e=>{e.forEach(e=>{e.isIntersecting&&(e.target.classList.add("is-visible"),t.unobserve(e.target))})},{threshold:.12});[".event-board",".menu-grid",".action-grid",".gallery"].forEach(e=>{document.querySelectorAll(`${e} > .reveal`).forEach((e,t)=>{e.style.setProperty("--reveal-delay",80*Math.min(t,4)+"ms")})}),e.forEach(e=>t.observe(e)),window.setTimeout(()=>{document.querySelectorAll(".reveal:not(.is-visible)").forEach(e=>e.classList.add("is-visible"))},2500)},loadContent=async()=>{try{const e=await fetch(`data/site.json?v=${Date.now()}`,{cache:"no-store"});if(!e.ok)throw new Error(`Content request failed: ${e.status}`);const t=await e.json();return{...fallbackContent,...t,images:{...fallbackContent.images,...t.images||{}}}}catch(e){return console.warn("Using embedded Zigel Bar content fallback",e),fallbackContent}},boot=async()=>{const e=await loadContent();applyTextContent(e),applyLinks(e.links),applyImages(e),renderMarquee(e),renderEvents(e.events),renderMenu(e.menu),renderGallery(e.images?.gallery),renderNotice(e.notice),observeRevealItems(),onScroll(),document.body.classList.add("is-ready")};window.addEventListener("scroll",onScroll,{passive:!0}),boot();
